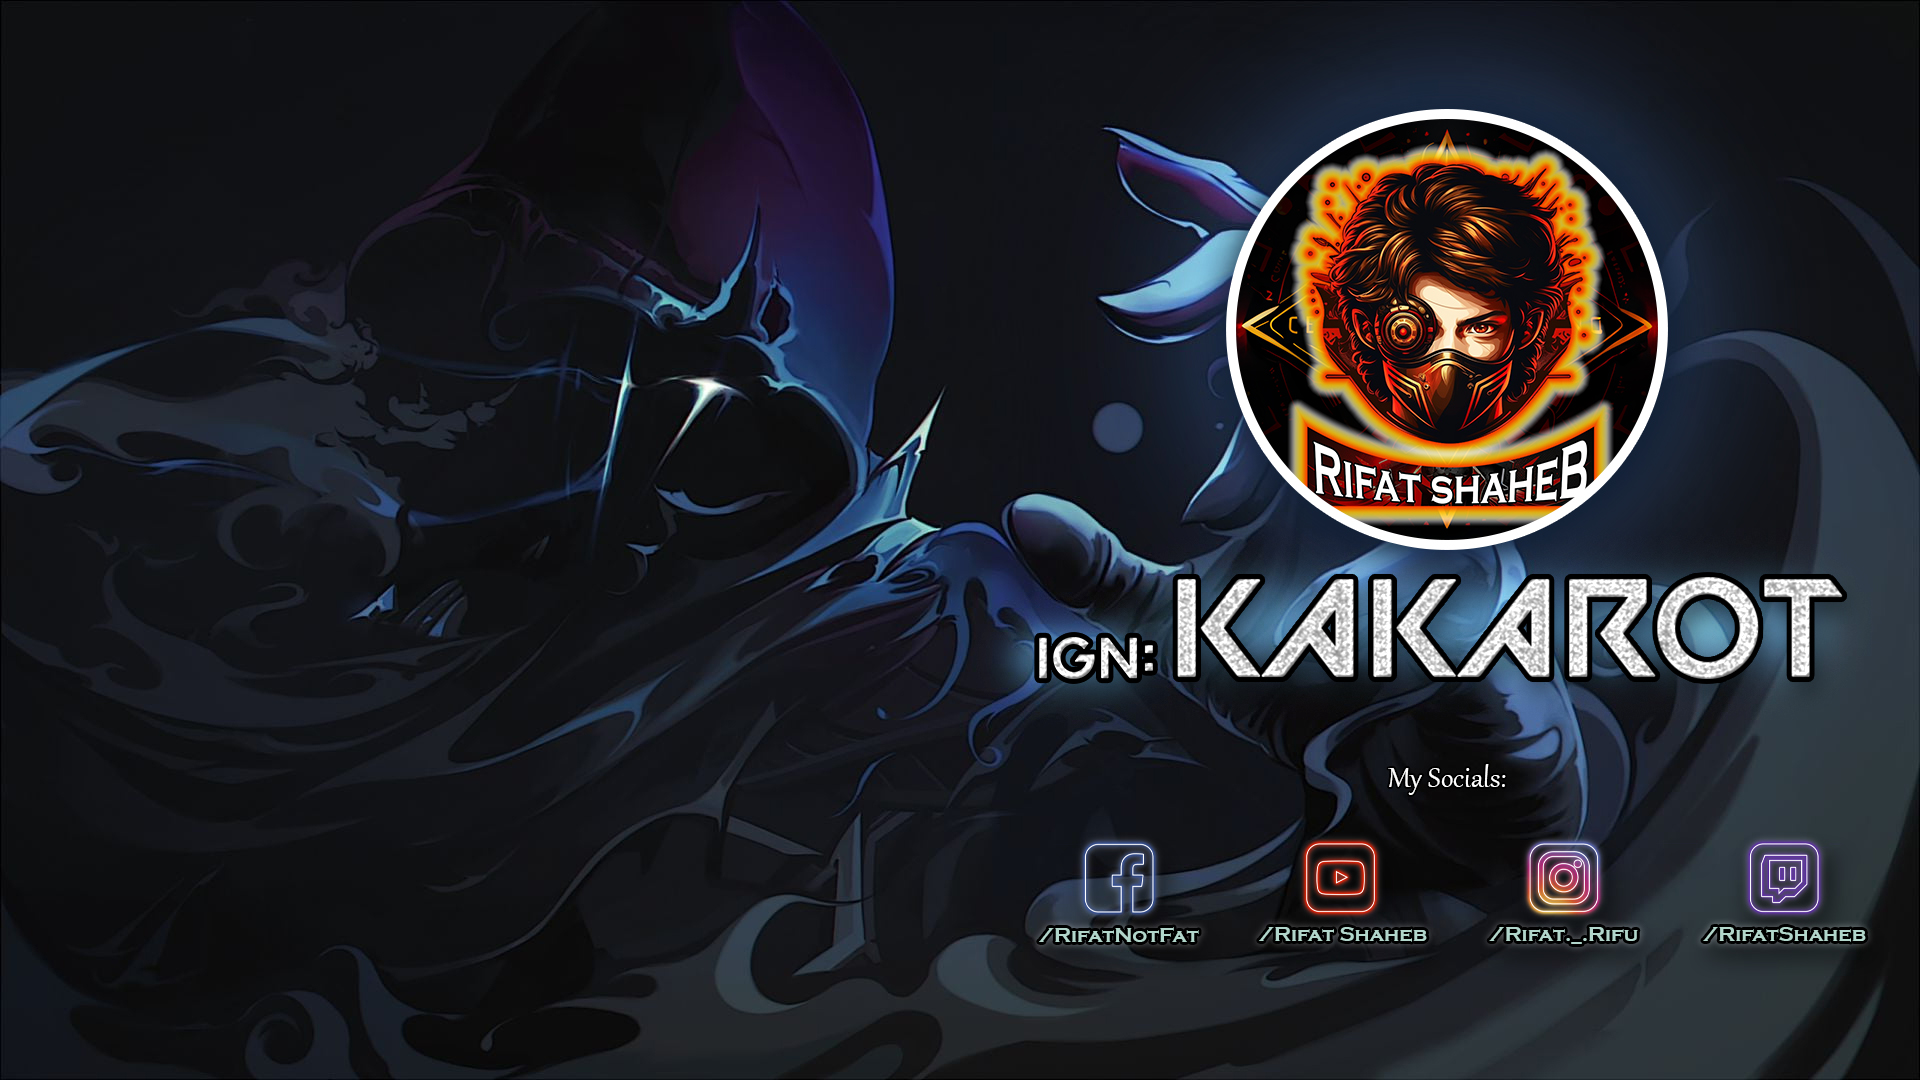
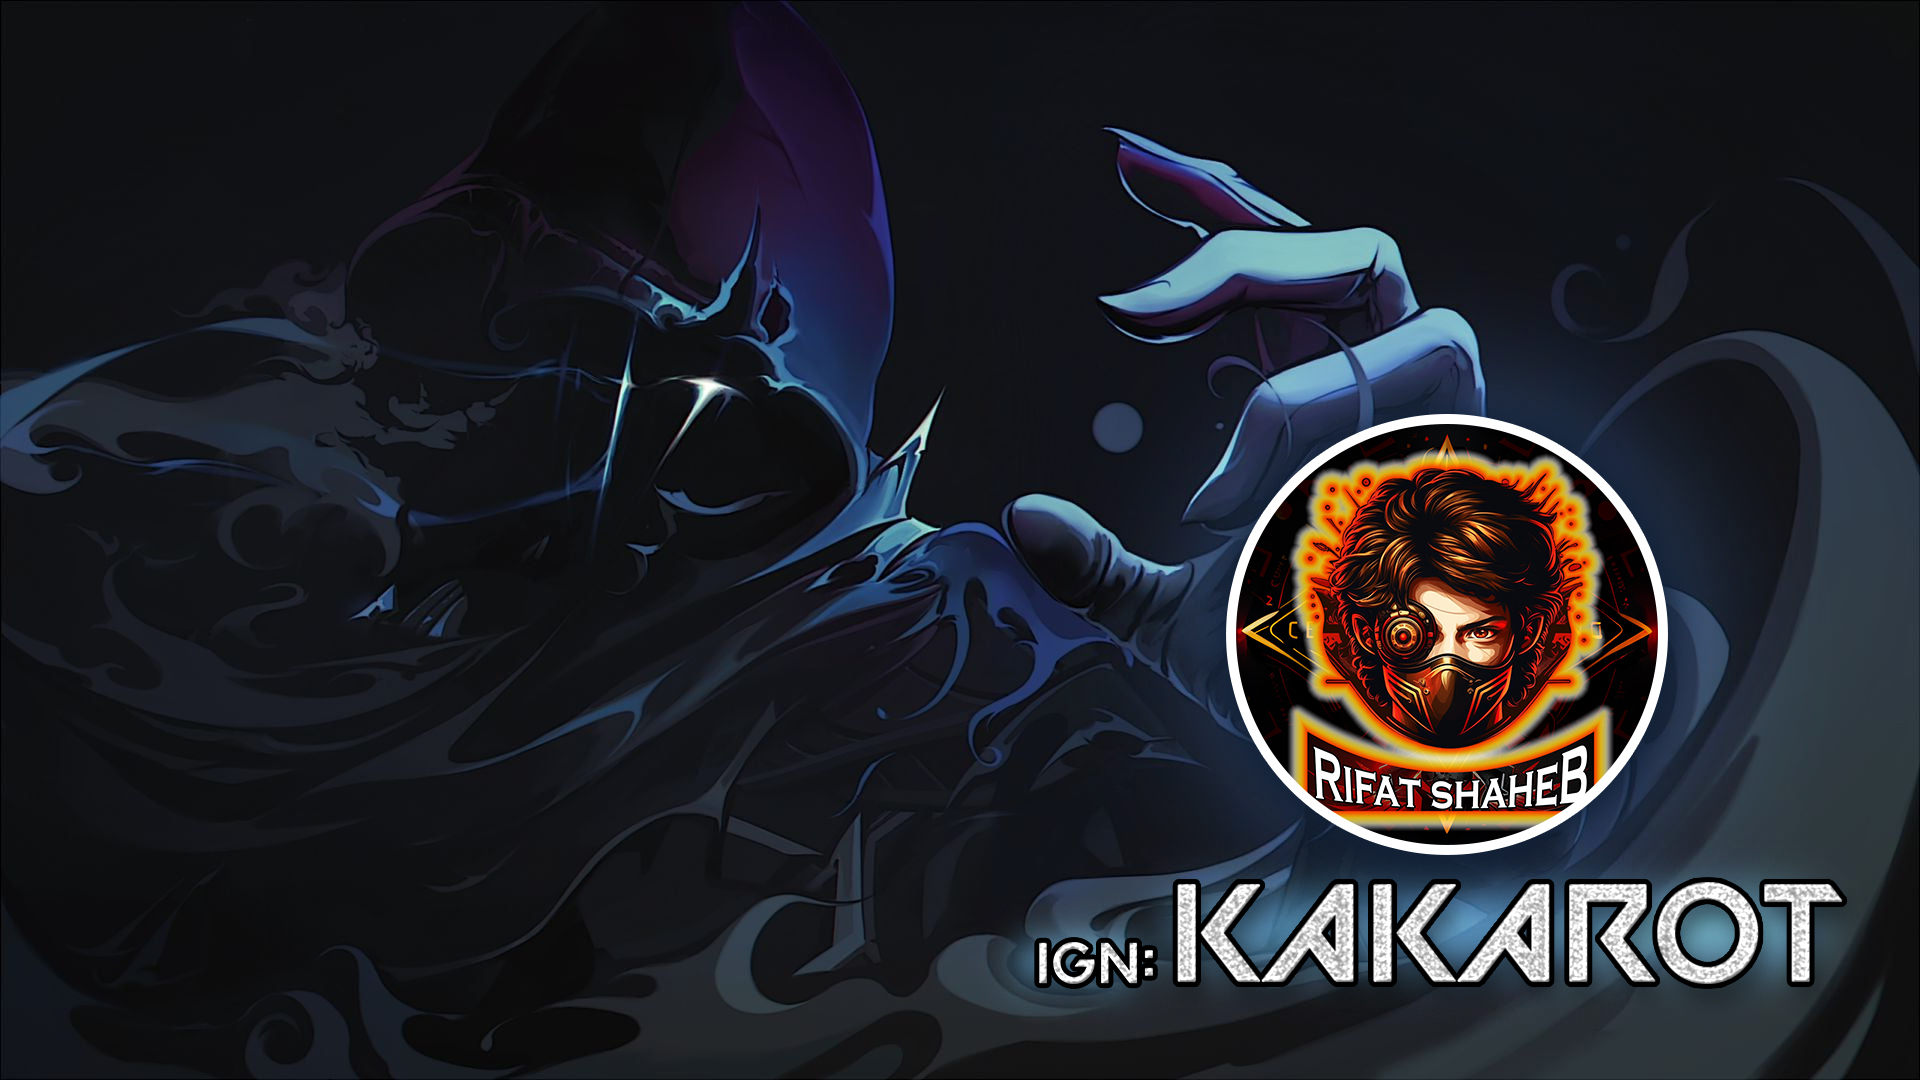
Add files via upload

Changed region(s): [[0.5, 0.0306, 0.9688, 0.9472]]

diff --git a/home.html b/home.html
@@ -8,33 +8,22 @@
     <title>Home</title>
 </head>
 <body>
-    <div class="container">
+  <div class="container">
         <h1>Hello Jonogon!</h1>
-    <p class="bio" id="fade-text">I am <i><b>Rifat Azim</b></i>, a student of Computer Science & Engineering at North South University, and a passionate photographer and video editor. I enjoy turning ideas into reality through code, 
+    <p class="bio">I am <i><b>Rifat Azim</b></i>, a student of Computer Science & Engineering at North South University, and a passionate photographer and video editor. I enjoy turning ideas into reality through code, 
         and relish the challenge of problem-solving. Thank you for taking the time to learn a little about me. Feel free to reach out if you'd like to chat or collaborate on a project. 
         <br><br>You can find me on social media:
     </p>
-    </div>
-    <ul class="social-media">
-      <li>
-        <span class="icon"><ion-icon name="logo-facebook"></ion-icon></span>
-        <a href="https://www.facebook.com/RifatNotFat/" class="button">Facebook</a>
-    </li>
-      <li>
-        <span class="icon"><ion-icon name="logo-youtube"></ion-icon></span>
-        <a href="https://www.youtube.com/RifatShaheb/" class="button">YouTube</a>
-    </li>
-      <li>
-        <span class="icon"><ion-icon name="logo-instagram"></ion-icon></span>
-        <a href="https://www.instagram.com/rifat._.rifu/" class="button">Instagram</a>
-    </li>
-      <li>
-        <span class="icon"><ion-icon name="logo-twitch"></ion-icon></span>
-        <a href="https://www.twitch.tv/rifatshaheb" class="button">Twitch</a>
-    </li>
-    </ul>
+  <div class="social-media">
+      <a href="https://www.facebook.com/RifatNotFat/"><ion-icon name="logo-facebook"></ion-icon></a>
+      <a href="https://www.youtube.com/RifatShaheb/"><ion-icon name="logo-youtube"></ion-icon></a>
+      <a href="https://www.instagram.com/rifat._.rifu/"><ion-icon name="logo-instagram"></ion-icon></a>
+      <a href="https://www.twitch.tv/rifatshaheb"><ion-icon name="logo-twitch"></ion-icon></a>
+  </div>
+  </div>
 
-    <script type="module" src="https://unpkg.com/ionicons@5.5.2/dist/ionicons/ionicons.esm.js"></script>
-    <script nomodule src="https://unpkg.com/ionicons@5.5.2/dist/ionicons/ionicons.js"></script>
+
+  <script type="module" src="https://unpkg.com/ionicons@5.5.2/dist/ionicons/ionicons.esm.js"></script>
+  <script nomodule src="https://unpkg.com/ionicons@5.5.2/dist/ionicons/ionicons.js"></script>
 </body>
 </html>

diff --git a/style.css b/style.css
@@ -60,7 +60,6 @@ h1:hover {
   font-family: comic sans ms;
   font-size: 16px;
   line-height: 1.5;
-  margin: 20px 0;
   text-align: justify;
   padding: 80px;
   font-weight: 300;
@@ -77,29 +76,22 @@ h2.logo img {
   box-shadow: 0 0 10px #f31e0f, 0 0 20px #ffdb78, 0 0 30px #ff1911;
   border-radius: 50%;
 }
-ul.social-media{
-  display: block;
-  margin-top: 20px;
-}
-.button {
-  display: inline-block;
-  justify-content: center;
-  padding: 10px;
-  margin: 0 5px;
-  background-color: #000;
-  color: #fff;
-  border-radius: 5px;
-  text-decoration: none;
-  transition: all 0.3s ease;
-}
 body{
-    display: flex;
-    justify-content: center;
-    align-items: center;
-    min-height: 100vh;
+  min-height: 100vh;
     background: url(RSC.jpg);
     background-size: cover;
     background-position: center;
+}
+div.social-media a {
+  display: inline-block;
+  margin-right: 10px;
+  color: #c9c9c9;
+  text-decoration: none;
+  border-bottom: 2px solid #c9c9c9;
+  padding-bottom: 2px;
+}
+div.social-media a:hover {
+  border-bottom-color: #f00;
 }
 .navigation a{
     position: relative;
